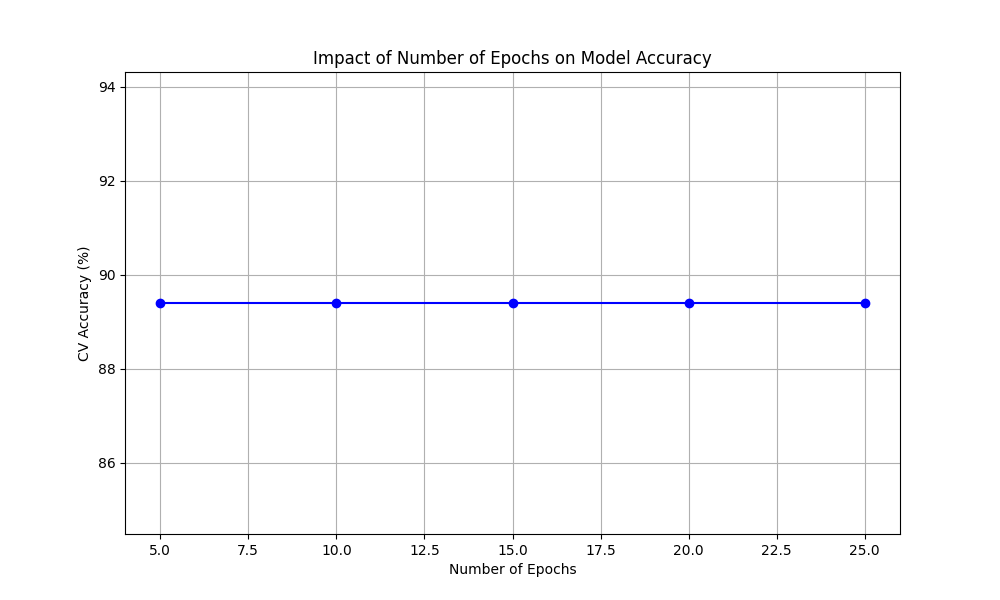
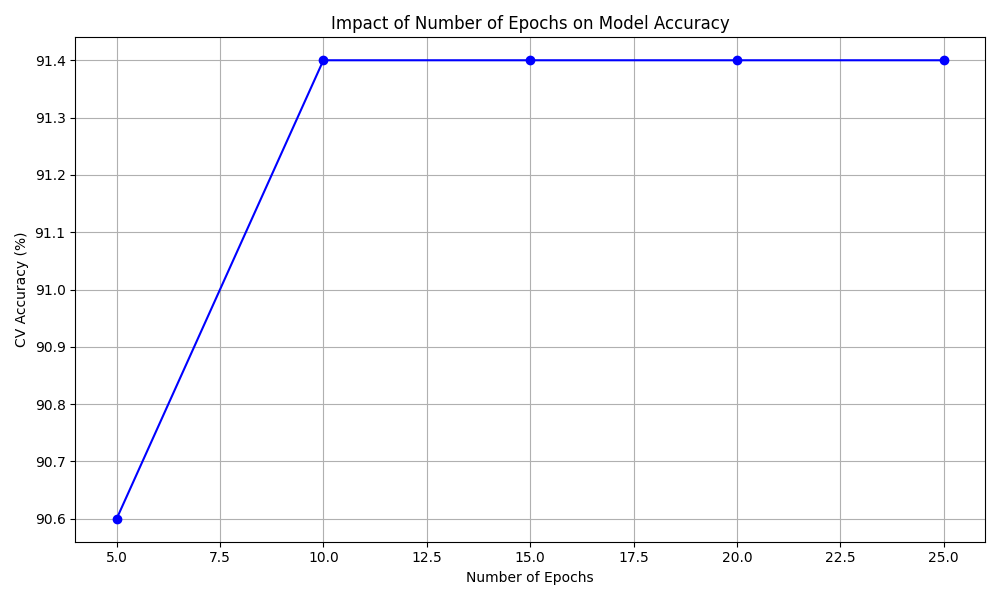
logreg figures done

diff --git a/src/grid_search/LogReg/run_logreg_gs.py b/src/grid_search/LogReg/run_logreg_gs.py
@@ -28,16 +28,23 @@ if __name__ == "__main__":
     config = utils.get_config(config_path)
     torch.manual_seed(config["seed"])
 
+
     transform = tv.transforms.Compose([
         tv.transforms.ToTensor()
     ])
     trainset = tv.datasets.MNIST(root=PATH_TO_ROOT+'/data/', train=True, download=True, transform=transform)
     testset = tv.datasets.MNIST(root=PATH_TO_ROOT+'/data/', train=False,transform=transform, download=False) 
 
+
     # Get parameter lists from config
+    fixed_lr = config['fixed_lr']
+    fixed_batch_size = config['fixed_batch_size']
+    fixed_epochs = config['fixed_epochs']
+    best_learning_rates = [0.01, 0.1]
     learning_rates = config["learning_rates"]
     batch_sizes = config["batch_sizes"]
     epochs_list = config["epochs_list"]
+
 
     # Lists to store results
     lr_accuracies = []
@@ -45,31 +52,32 @@ if __name__ == "__main__":
     epoch_accuracies = []
 
     for lr in learning_rates:
-        val_accuracies = run_cv(trainset, config, epochs=10, learning_rate=lr, batch_size=64)
+        val_accuracies = run_cv(trainset, config, epochs=fixed_epochs, learning_rate=lr, batch_size=fixed_batch_size)
         mean_accuracy = float(np.mean(val_accuracies))
         std_accuracy = float(np.std(val_accuracies))
         lr_accuracies.append(mean_accuracy)
         print(f"Learning Rate: {lr}, CV Accuracy: {mean_accuracy:.2f}% with standard deviation {std_accuracy:.2f}")
 
     for batch_size in batch_sizes:
-        val_accuracies = run_cv(trainset, config, epochs=10, learning_rate=0.01, batch_size=batch_size)
+        val_accuracies = run_cv(trainset, config, epochs=fixed_epochs, learning_rate=fixed_lr, batch_size=batch_size)
         mean_accuracy = float(np.mean(val_accuracies))
         std_accuracy = float(np.std(val_accuracies))
         batch_accuracies.append(mean_accuracy)
         print(f"Batch size: {batch_size}, CV Accuracy: {mean_accuracy:.2f}% with standard deviation {std_accuracy:.2f}")
 
     for epoch in epochs_list:
-        val_accuracies = run_cv(trainset, config, epochs=epoch, learning_rate=0.01, batch_size=64)
+        val_accuracies = run_cv(trainset, config, epochs=epoch, learning_rate=fixed_lr, batch_size=fixed_batch_size)
         mean_accuracy = float(np.mean(val_accuracies))
         std_accuracy = float(np.std(val_accuracies))
         epoch_accuracies.append(mean_accuracy)
         print(f"Epochs: {epoch}, CV Accuracy: {mean_accuracy:.2f}% with standard deviation {std_accuracy:.2f}")
 
 
-    # Create plots
+    #Create plots
     utils.plot_parameter_study(learning_rates, lr_accuracies, "Learning Rate")
-    utils.plot_parameter_study(batch_sizes, batch_accuracies, "Batch Size")
+    utils.plot_parameter_study(batch_sizes, batch_accuracies, "Batch Size", xticks=True)
     utils.plot_parameter_study(epochs_list, epoch_accuracies, "Number of Epochs")
+
 
 
 

diff --git a/src/evaluation/CNN/run_cnn_eval.py b/src/evaluation/CNN/run_cnn_eval.py
@@ -4,6 +4,7 @@ import sys
 import torch
 from torch.utils.data import DataLoader
 import torchvision
+import numpy as np
 import git
 
 PATH_TO_ROOT = git.Repo(".", search_parent_directories=True).working_dir
@@ -59,11 +60,11 @@ if __name__=="__main__":
         score_df = model_utils.test_model_classwise(testloader, model, classes)
         utils.plot_classwise(score_df)
 
-        # total_accuracies = bootstrap.bootstrap_test_set(testset, model, config)
-        # lower_bound = np.percentile(total_accuracies, 2.5)
-        # upper_bound = np.percentile(total_accuracies, 97.5)
-        # mean_accuracy = np.mean(total_accuracies)
-        # print(lower_bound, mean_accuracy, upper_bound)
+        total_accuracies = bootstrap.bootstrap_test_set(testset, model, config)
+        lower_bound = np.percentile(total_accuracies, 2.5)
+        upper_bound = np.percentile(total_accuracies, 97.5)
+        mean_accuracy = np.mean(total_accuracies)
+        print(lower_bound, mean_accuracy, upper_bound)
         # fig, ax = plt.subplots()
         # print(len(total_accuracies))
         # sns.histplot(total_accuracies, element="poly", common_norm=False, ax=ax)

diff --git a/src/utils/utils.py b/src/utils/utils.py
@@ -91,12 +91,16 @@ def plot_classwise(df, title, save_plot, filename):
         plt.savefig(PATH_TO_ROOT+'results/cnn_eval/'+filename)
     else:
         plt.show()
-def plot_parameter_study(param_values, accuracies, param_name):
+
+def plot_parameter_study(param_values, accuracies, param_name, xticks=False):
     plt.figure(figsize=(10, 6))
     plt.plot(param_values, accuracies, 'bo-')
     plt.xlabel(param_name)
+    if xticks: 
+        plt.xticks(param_values)
     plt.ylabel('CV Accuracy (%)')
     plt.title(f'Impact of {param_name} on Model Accuracy')
     plt.grid(True)
+    plt.tight_layout()
     plt.savefig(f'{PATH_TO_ROOT}/results/logreg/{param_name.lower().replace(" ", "_")}_study.png')
     plt.close()

diff --git a/src/models/LogisticRegression.py b/src/models/LogisticRegression.py
@@ -17,11 +17,11 @@ class LogisticRegression(nn.Module):
         # Apply softmax to get probabilities
         return F.log_softmax(logits, dim=1)
     
-    def predict(self, x):
-        with torch.no_grad():
-            # Get the predicted class (digit)
-            return self.forward(x).argmax(dim=1)
+    # def predict(self, x):
+    #     with torch.no_grad():
+    #         # Get the predicted class (digit)
+    #         return self.forward(x).argmax(dim=1)
     
-    def accuracy(self, x, y):
-        predictions = self.predict(x)
-        return (predictions == y).float().mean()
+    # def accuracy(self, x, y):
+    #     predictions = self.predict(x)
+    #     return (predictions == y).float().mean()
